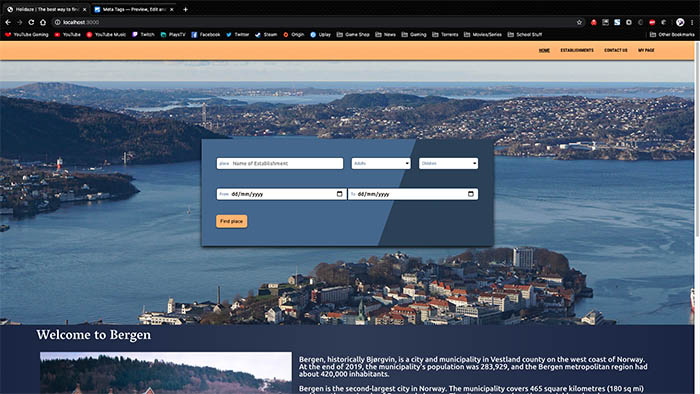
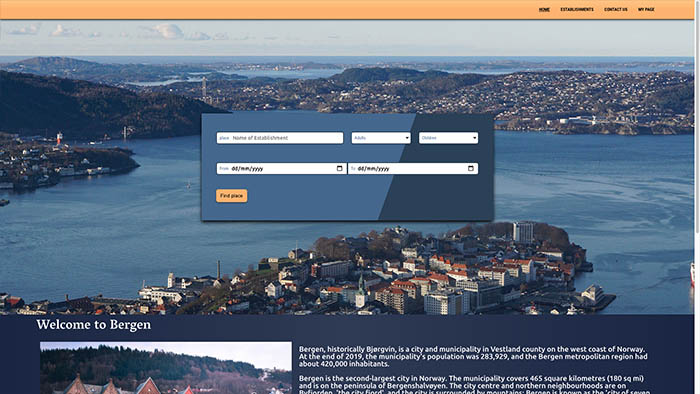
fixed small issues

diff --git a/src/components/components/filters/SearchBox.js b/src/components/components/filters/SearchBox.js
@@ -24,7 +24,7 @@ export default function SearchBox({className, label, updateData, data, sectionCo
 
     return (
         <div className={`${className}__search form__section ${sectionCol}`}>
-            <div className={`${className}__searchWrapper form__group ${groupCol}`}>
+            <div className={`${className}__searchWrapper searchBox form__group ${groupCol}`}>
                 <label className={`${className}__searchLabel form__label--compact`} htmlFor="est-search">{label}</label>
                 <input className={`${className}__searchInput form__search form__input--compact`} type="text" placeholder="Name of Establishment" name="search" ref={Ref}
                        onInput={() => setSearch({...search, focus: true})}
@@ -64,7 +64,7 @@ export default function SearchBox({className, label, updateData, data, sectionCo
                                                 </div>
                                             </div>
                                             <div className="resultItem__action column col-s-12">
-                                                <Link className="resultItem__readMore link--white" to={`/specific/${est.establishmentID}`} tabindex="-1">Read more</Link>
+                                                <Link className="resultItem__readMore link--white" to={`/specific/${est.establishmentID}`} tabIndex="-1">Read more</Link>
                                             </div>
                                         </div>
                                     </label>

diff --git a/src/components/Home.js b/src/components/Home.js
@@ -36,6 +36,12 @@ export default function Home({establishments}) {
             sEstablishment: newData
         });
     }
+    function updateFilters(newData) {
+        setData({
+            ...data,
+            fEstablishments: newData
+        })
+    }
     const {register, handleSubmit, getValues, errors} = useForm({
         validationSchema : yup.object().shape({
             search: yup
@@ -43,7 +49,7 @@ export default function Home({establishments}) {
                 .test({
                     message: "please select an establishment",
                     test: () => {
-                        return data.sEstablishment !== null;
+                        return data.sEstablishment.length > 0;
                     }
                 }),
             adults: yup
@@ -60,8 +66,10 @@ export default function Home({establishments}) {
         <div className="page">
             <div className="home-hero hero column">
                 <form className="orderBox containerBox form" onChange={() => {
+                    console.log(data.sEstablishment);
                     const values = getValues();
-                    _filterEstablishments(data.oEstablishments, _updateData, values)
+                    _filterEstablishments(data.oEstablishments, updateFilters
+                    , values)
                 }} onSubmit={handleSubmit(_checkout)}>
                     <div className="orderBox__filter">
                         <div className="form__section row">

diff --git a/src/style/global.scss b/src/style/global.scss
@@ -107,7 +107,7 @@ body {
 
 //Start of Hero
 .hero {
-  margin: -30px -16px 30px;
+  margin: -30px -16px 50px;
   min-height: 75vh;
   position: relative;
   padding: 40px 0;
@@ -239,7 +239,7 @@ body {
 
 //Start of Footer
 .footer {
-  padding: 0 20px;
+  padding: 20px;
   background-color: $footerColor;
   &__link {
     @extend .link;
@@ -406,10 +406,10 @@ body {
   @media (min-width: $sGrid) {
     //Start of Page
     .page {
-      padding: 50px;
+      padding: 30px 50px 50px;
     }
     .hero {
-      margin: -50px;
+      margin: -30px -50px 50px;
     }
     //End of Page
     //Start of Confirmation box
@@ -510,7 +510,7 @@ body {
     //End of Page
     //Start of Hero
     .hero {
-      margin: -30px -100px 0;
+      margin: -30px -100px 50px;
     }
     //End of Hero
     //Start of Footer

diff --git a/src/functions/handleEstablishmentForm.js b/src/functions/handleEstablishmentForm.js
@@ -1,13 +1,15 @@
 import PropTypes from "prop-types";
 
 export function _filterEstablishments(original, updateData, values) {
+
     let filtered = original.filter(item => {
         if (values.price1 && values.price2) {
             return ((parseInt(item.price) >= parseInt(values.price1)) && (parseInt(item.price) <= parseInt(values.price2))) && new RegExp(`^${values.search}`, "gi").test(item.establishmentName);
         } else {
-            return new RegExp(`^${values.search}`, "gi").test(item.establishmentName)
+            return new RegExp(`${values.search}`, "gi").test(item.establishmentName)
         }
     });
+    console.log(original, values, filtered)
     if (updateData) {
         updateData(filtered)
     }

diff --git a/src/style/homepage.scss b/src/style/homepage.scss
@@ -68,11 +68,6 @@
 //End of OrderBox
 
 //start of search Results
-.orderBox__search {
-  &:focus-within > .searchResults {
-    display: block;
-  }
-}
 .searchResults {
   display: none;
   position: absolute;
@@ -87,6 +82,13 @@
   border-radius: $borderRadius;
   border: 3px solid $white;
 }
+
+.searchBox {
+  &:focus-within > .searchResults {
+    display: block;
+  }
+}
+
 .resultItem {
   background-color: $thirdColor;
   border-radius: $borderRadius;
@@ -175,13 +177,6 @@
       &__info {
         order: 2;
       }
-    }
-  }
-
-  //from tablet to desktop
-  @media (min-width: $sGrid) and (max-width: $mGrid){
-    .bergen {
-      padding-top: 60px;
     }
   }
 

diff --git a/src/style/inputs.scss b/src/style/inputs.scss
@@ -35,7 +35,7 @@
   &__item {
     height: 34px;
     margin: auto 0;
-    padding: 8px;
+    padding: 10px;
     border-radius: $borderRadius;
     display: block;
     width: 100%;
